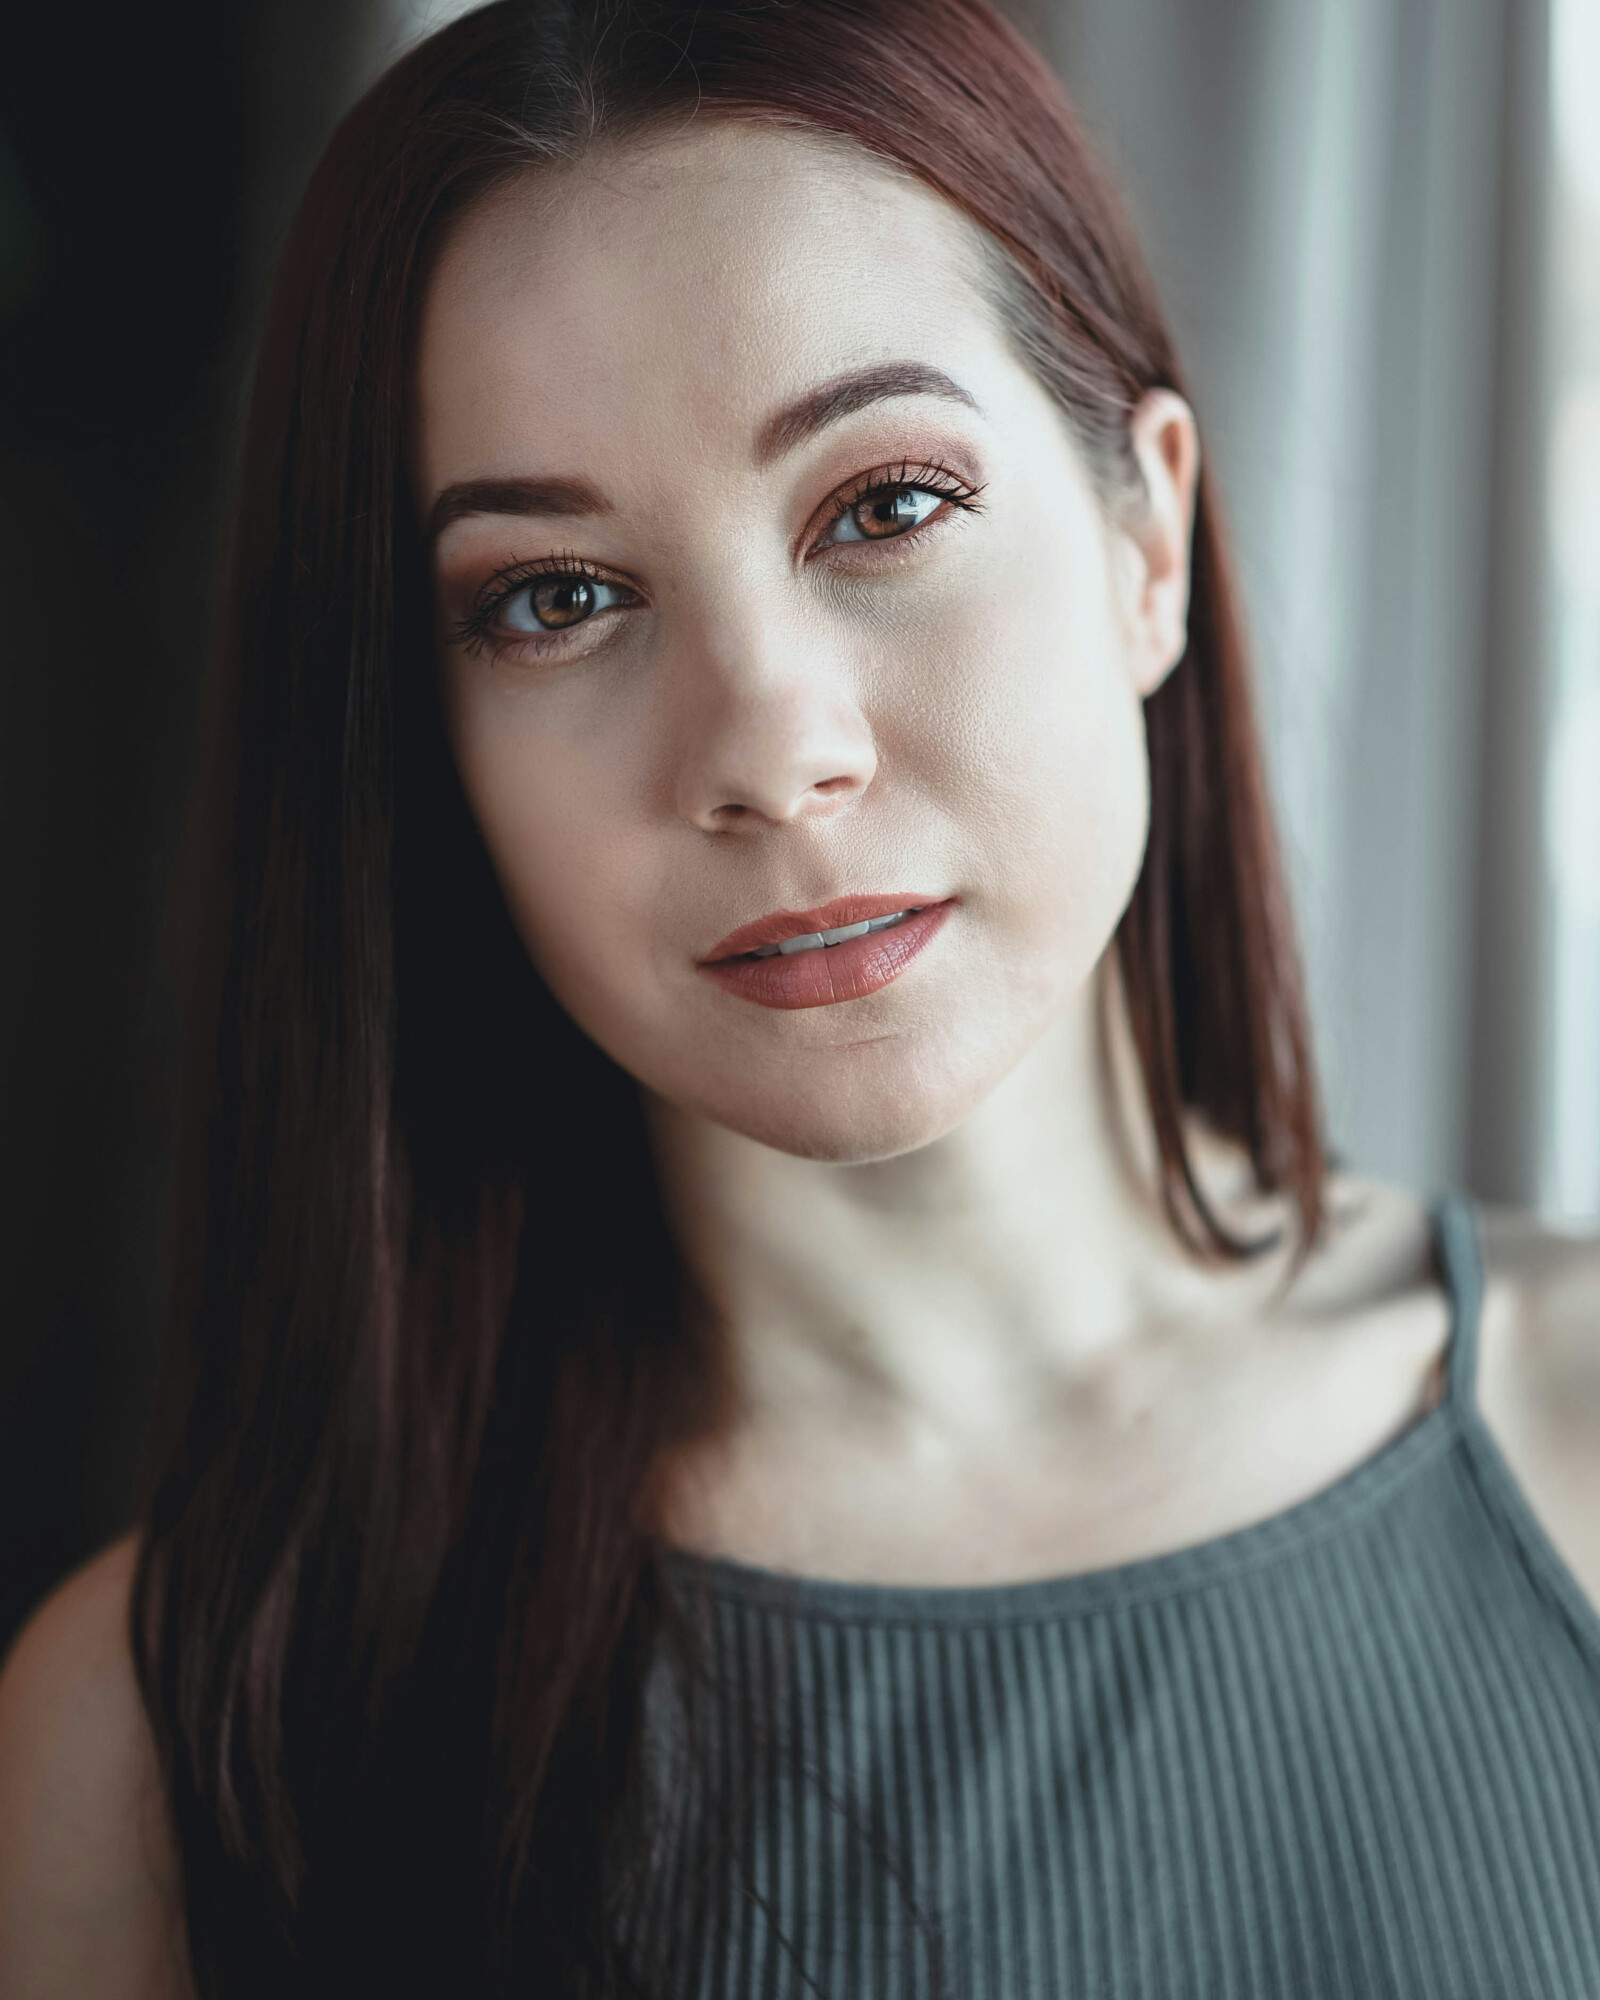
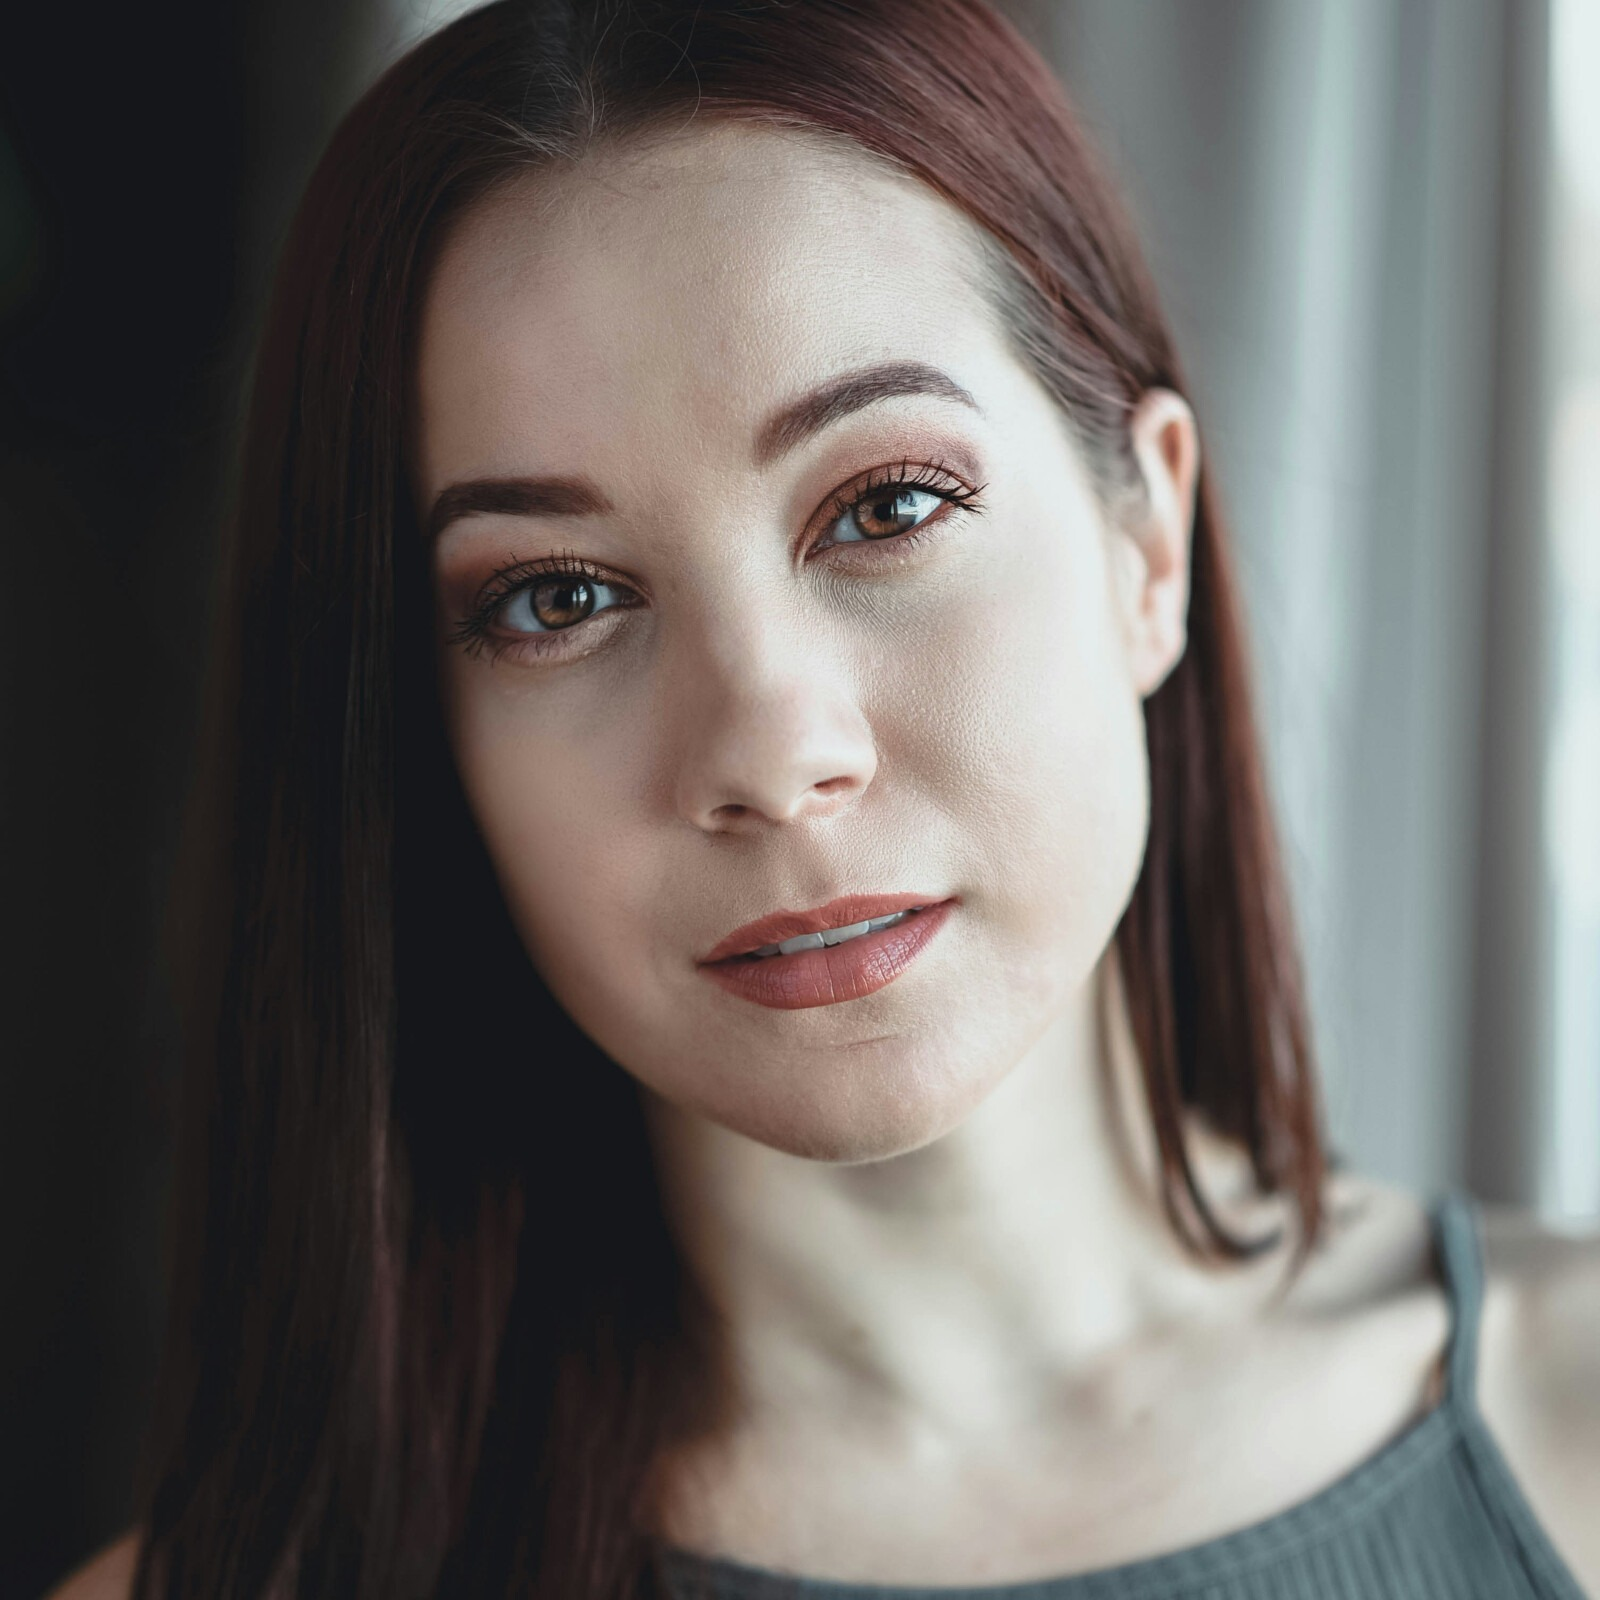
changed size of the pictures, updated the about-us with correct styling for tablet media

diff --git a/about-us.html b/about-us.html
@@ -118,17 +118,17 @@
                 <!-- Introduction of each person from the team - 1st row -->
                 <div class="card-about-us-container">
                     <h2>Meet the Dream Pages Team</h2>
-                    <div class="row">
-                        <div class="col-12 col-md-6 col-lg-3">
-                            <div class="card-about-us">
+                    <div class="row align-items-stretch">
+                        <div class="col-12 col-md-6 col-lg-3 mb-4">
+                            <div class="card-about-us h-100">
                                 <!-- Name -->
-                                <h4>Vicky “The Word Weaver”</h4>
+                                <h4>Victoria “The Word Weaver”</h4>
                                 <h6>Head Story Designer</h6>
                                 <div class="mini-card">
                                     <!-- Picture -->
                                     <img class="small-picture-card" src="assets/images/Vicky-picture.jpg" alt="young women with ginger hairs">
                                     <!-- Details -->
-                                    <p class="about-us-card-p">
+                                    <p class="about-us-card-p h-100">
                                         “Hi, I’m Vicky! I’m the one who turns your child’s dreams into magical adventures. I’ve always believed that every child deserves to see themselves as the hero of their own story.
                             I love rainy days, big mugs of tea, and fantasy novels that make me forget time.
                             Fun fact? I once wrote an entire bedtime story in rhyme — completely by accident!"
@@ -140,8 +140,8 @@
                                 </p>
                             </div>
                         </div>
-                        <div class="col-12 col-md-6 col-lg-3">
-                            <div class="card-about-us">
+                        <div class="col-12 col-md-6 col-lg-3 mb-4">
+                            <div class="card-about-us h-100">
                                 <!-- Name -->
                                 <h4>Anna “The Color Whisperer”</h4>
                                 <h6>Lead Illustrator</h6>
@@ -151,8 +151,8 @@
                                     <!-- Details -->
                                     <p class="about-us-card-p">
                                         “Hello! I’m Anna, the illustrator who brings your stories to life with color and imagination. I love creating worlds where every page feels like a dream.
-                            I’m happiest with a watercolor brush in hand, a cat nearby, and bubble tea within reach.
-                            I secretly name every character I draw — even the clouds!"
+                            I’m happiest with a watercolor brush in hand, a cat nearby, and bubble tea within reach. There is no end to my imaginary world.
+                            I secretly name every character I draw — even the clouds and trees!"
                                     </p>
                                 </div>
                                 <!-- Motto -->
@@ -161,8 +161,8 @@
                                 </p>
                             </div>
                         </div>
-                        <div class="col-12 col-md-6 col-lg-3">
-                            <div class="card-about-us">
+                        <div class="col-12 col-md-6 col-lg-3 mb-4">
+                            <div class="card-about-us h-100">
                                 <!-- Name -->
                                 <h4>Patric “The Page Architect”</h4>
                                 <h6>Design & Layout Artist</h6>
@@ -182,7 +182,7 @@
                                 </p>
                             </div>
                         </div>
-                        <div class="col-12 col-md-6 col-lg-3">
+                        <div class="col-12 col-md-6 col-lg-3 mb-4">
                             <div class="card-about-us">
                                 <!-- Name -->
                                 <h4>Zack “The Story Alchemist”</h4>

diff --git a/assets/css/style.css b/assets/css/style.css
@@ -938,10 +938,8 @@ i {
     display: flex;
     flex-direction: column;
     justify-content: center;
-    border: 3px solid #ff9473;
+    border: 3px solid #f2c6b9;
     border-radius: 10px;
-    padding: 5px;
-    margin: 40px 10px;
 
 }
 
@@ -976,6 +974,30 @@ i {
     float: left;
     display: block;
 }
+
+
+/* Large devices (laptops and desktops, 992px and up) */
+@media screen and (min-width: 992px) {
+    
+}
+
+/* MEDIA QUERY - TABLET */
+
+@media (min-width: 768px) and (max-width: 991px) {
+
+    .mini-card img {
+        float: none !important;  
+        display: block;
+        margin: 0 auto 10px;      
+        width: 100%;              
+        max-width: 150px;         
+    }
+
+  
+
+    }
+
+
 /* --------------------------------------- FOOTER LAYOUT ------------------------------------------------*/
 
 
